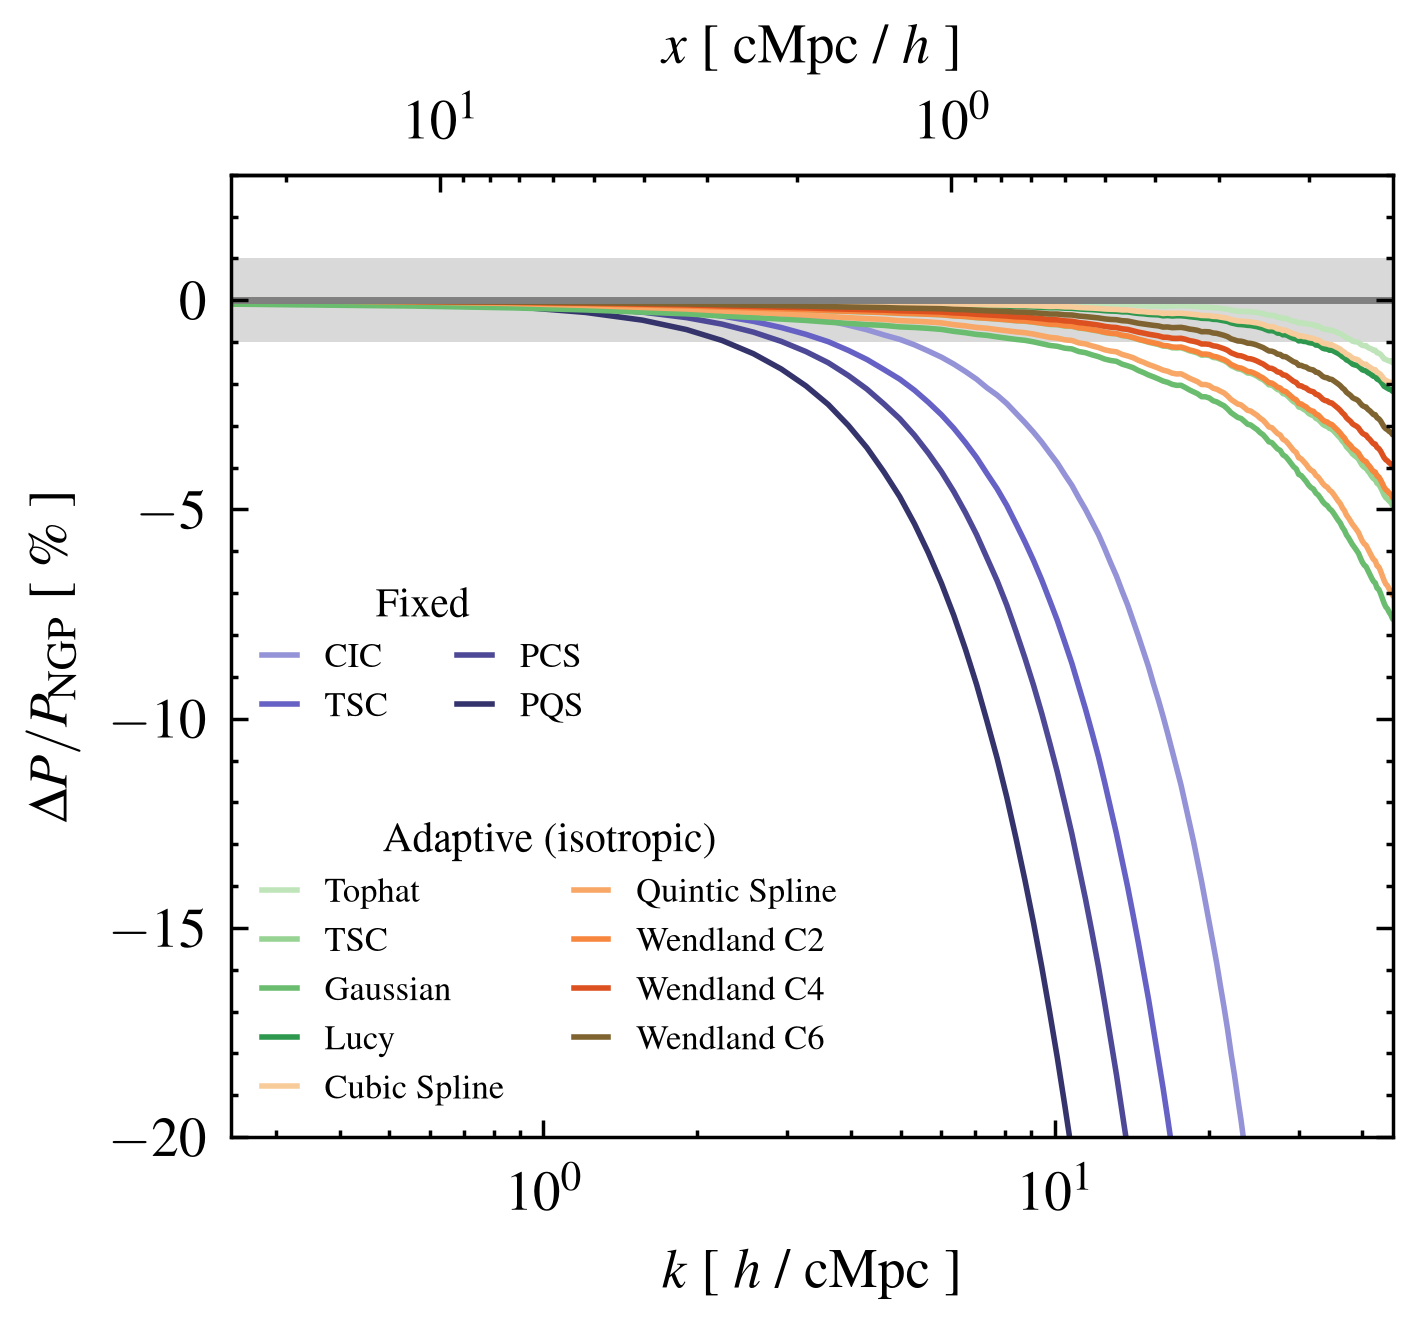
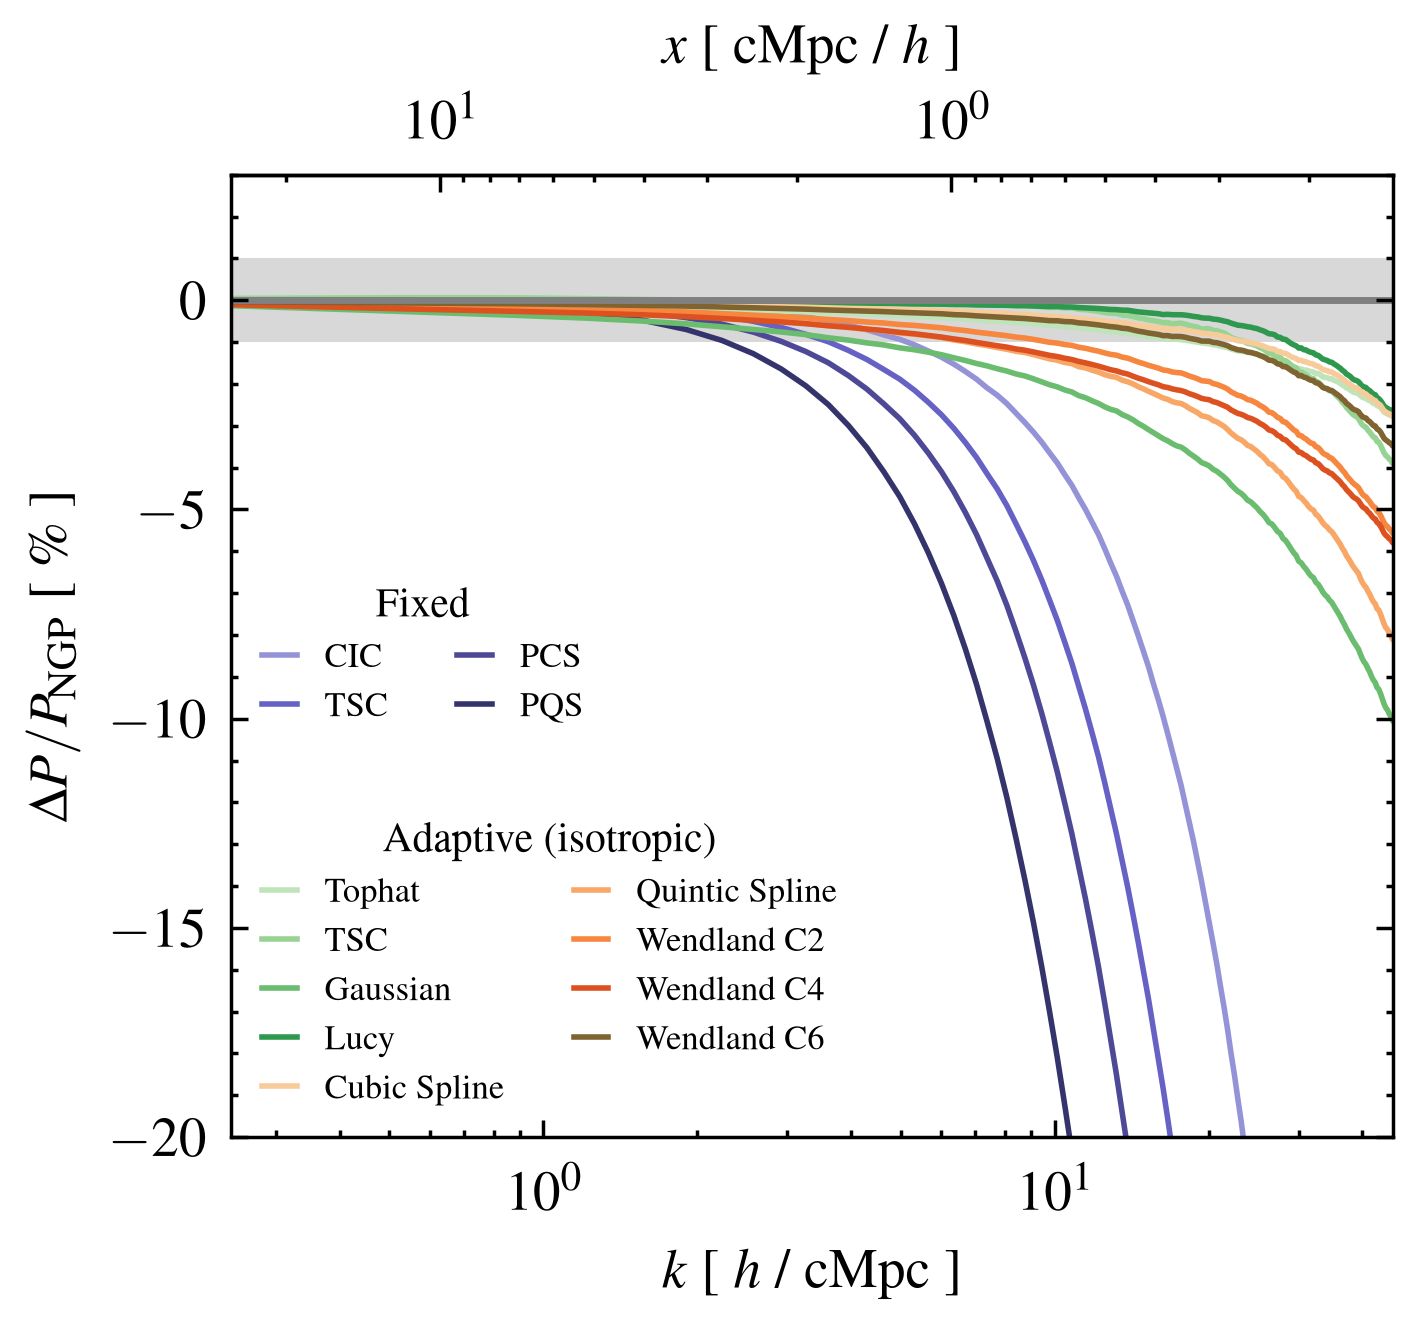
CI fix and removal of eta_crits left-overs

Changed region(s): [[0.1551, 0.2168, 0.9929, 0.4955], [0.9619, 0.4955, 0.9929, 0.5264]]

diff --git a/smudgy/backend/taichi/deposition.py b/smudgy/backend/taichi/deposition.py
@@ -2210,9 +2210,17 @@ def _covariant_2d(
 
         eta = 2.0 * ti.min(support_x_cell, support_y_cell)  # diameter convention
 
+        # A degenerate ellipsoid (any eigenvalue exactly 0 -- possible with
+        # few neighbors, e.g. near-coplanar configurations) makes
+        # detH = eval0*eval1 = 0 in the quadrature branch below, which would
+        # divide by zero. eta itself doesn't reliably flag this (it's driven
+        # by the largest eigenvalue per axis, not the product), so check
+        # explicitly and force the (division-free) sample branch instead.
+        degenerate = eval0 <= 0.0 or eval1 <= 0.0
+
         wj = particle_weights[n]
 
-        if eta < eta_crit:
+        if eta < eta_crit or degenerate:
 
             for s in range(num_samples):
 
@@ -2415,9 +2423,17 @@ def _covariant_3d(
         eta = 2.0 * ti.min(
             support_x_cell, ti.min(support_y_cell, support_z_cell)
         )  # diameter convention
+
+        # A degenerate ellipsoid (any eigenvalue exactly 0 -- possible with
+        # few neighbors, e.g. near-coplanar configurations) makes
+        # detH = eval0*eval1*eval2 = 0 in the quadrature branch below, which
+        # would divide by zero. eta itself doesn't reliably flag this (it's
+        # driven by the largest eigenvalue per axis, not the product), so
+        # check explicitly and force the (division-free) sample branch.
+        degenerate = eval0 <= 0.0 or eval1 <= 0.0 or eval2 <= 0.0
         wj = particle_weights[n]
 
-        if eta < eta_crit:
+        if eta < eta_crit or degenerate:
             # --- anti-aliasing branch: deposit via precomputed kernel samples ---
             for s in range(num_samples):
                 cx = sample_coords[s, 0]

diff --git a/smudgy/backend/taichi/__init__.py b/smudgy/backend/taichi/__init__.py
@@ -12,14 +12,26 @@ _ARCH_MAP = {
 }
 
 
-def init(arch="gpu", force=False, **kwargs):
+def init(arch=None, force=False, **kwargs):
     """Safe to call repeatedly: no-op if already initialized, unless
     force=True, which tears down and reconfigures the runtime -- e.g.
     to compare backends interactively in a notebook.
+
+    arch=None means "no preference": reuse whatever is already active if
+    the runtime has been initialized before, or fall back to "gpu" on the
+    very first call in the process. This matters because switching a live
+    Taichi runtime's arch mid-process (e.g. gpu -> cpu -> gpu) has been
+    observed to destabilize previously-compiled @ti.kernel functions --
+    callers that don't care about arch should never force that switch just
+    by omitting the argument.
     """
     global _initialized, _current_config
 
-    arch = "gpu" if arch is None else arch
+    if arch is None:
+        if _initialized and not force:
+            return
+        arch = "gpu"
+
     if arch not in _ARCH_MAP:
         raise ValueError(
             f"Unknown Taichi arch: {arch!r}. Expected one of {sorted(_ARCH_MAP)}"

diff --git a/smudgy/tests/conftest.py b/smudgy/tests/conftest.py
@@ -1,0 +1,18 @@
+import pytest
+
+from smudgy.backend.taichi import init as taichi_init
+
+
+@pytest.fixture(scope="session", autouse=True)
+def _force_taichi_cpu():
+    """Force the Taichi runtime to CPU arch before any test runs.
+
+    Without this, whichever test happens to construct the first
+    PointCloud(backend="taichi") (with no explicit arch) wins the default
+    "gpu" arch for the rest of the pytest session -- non-deterministic
+    across machines/CI runners and, per backend/taichi/__init__.py's
+    docstring, unsafe to switch mid-process once other tests have already
+    compiled kernels under a different arch. Every backend-consistency test
+    is meant to compare Numpy CPU against Taichi CPU anyway.
+    """
+    taichi_init(arch="cpu")

diff --git a/smudgy/pointcloud.py b/smudgy/pointcloud.py
@@ -1115,10 +1115,8 @@ class PointCloud:
         # Verbose output / computation
         # ----------------------------
         if self.verbose:
-            print(
-                f"[smudgy] Depositing using "
-                f"{structure_temp if structure_temp else ''} '{kernel_name_temp}' kernel"
-            )
+            structure_prefix = f"{structure_temp} " if structure_temp else ""
+            print(f"[smudgy] Depositing using {structure_prefix}'{kernel_name_temp}' kernel")
 
         fields_grid, weights_grid = execution._dispatch(
             "deposit",

diff --git a/smudgy/tests/integration/test_weight_conservation_isotropic.py b/smudgy/tests/integration/test_weight_conservation_isotropic.py
@@ -66,7 +66,7 @@ def test_weight_conservation(
         kernel_name=kernel_name,
         structure=structure,
         integration_method=integral_method,
-        eta_crit=10,  # for anti-aliasing tophat kernel
+        #eta_crit=10,  # for anti-aliasing tophat kernel
         return_weights=True,
     )
 
